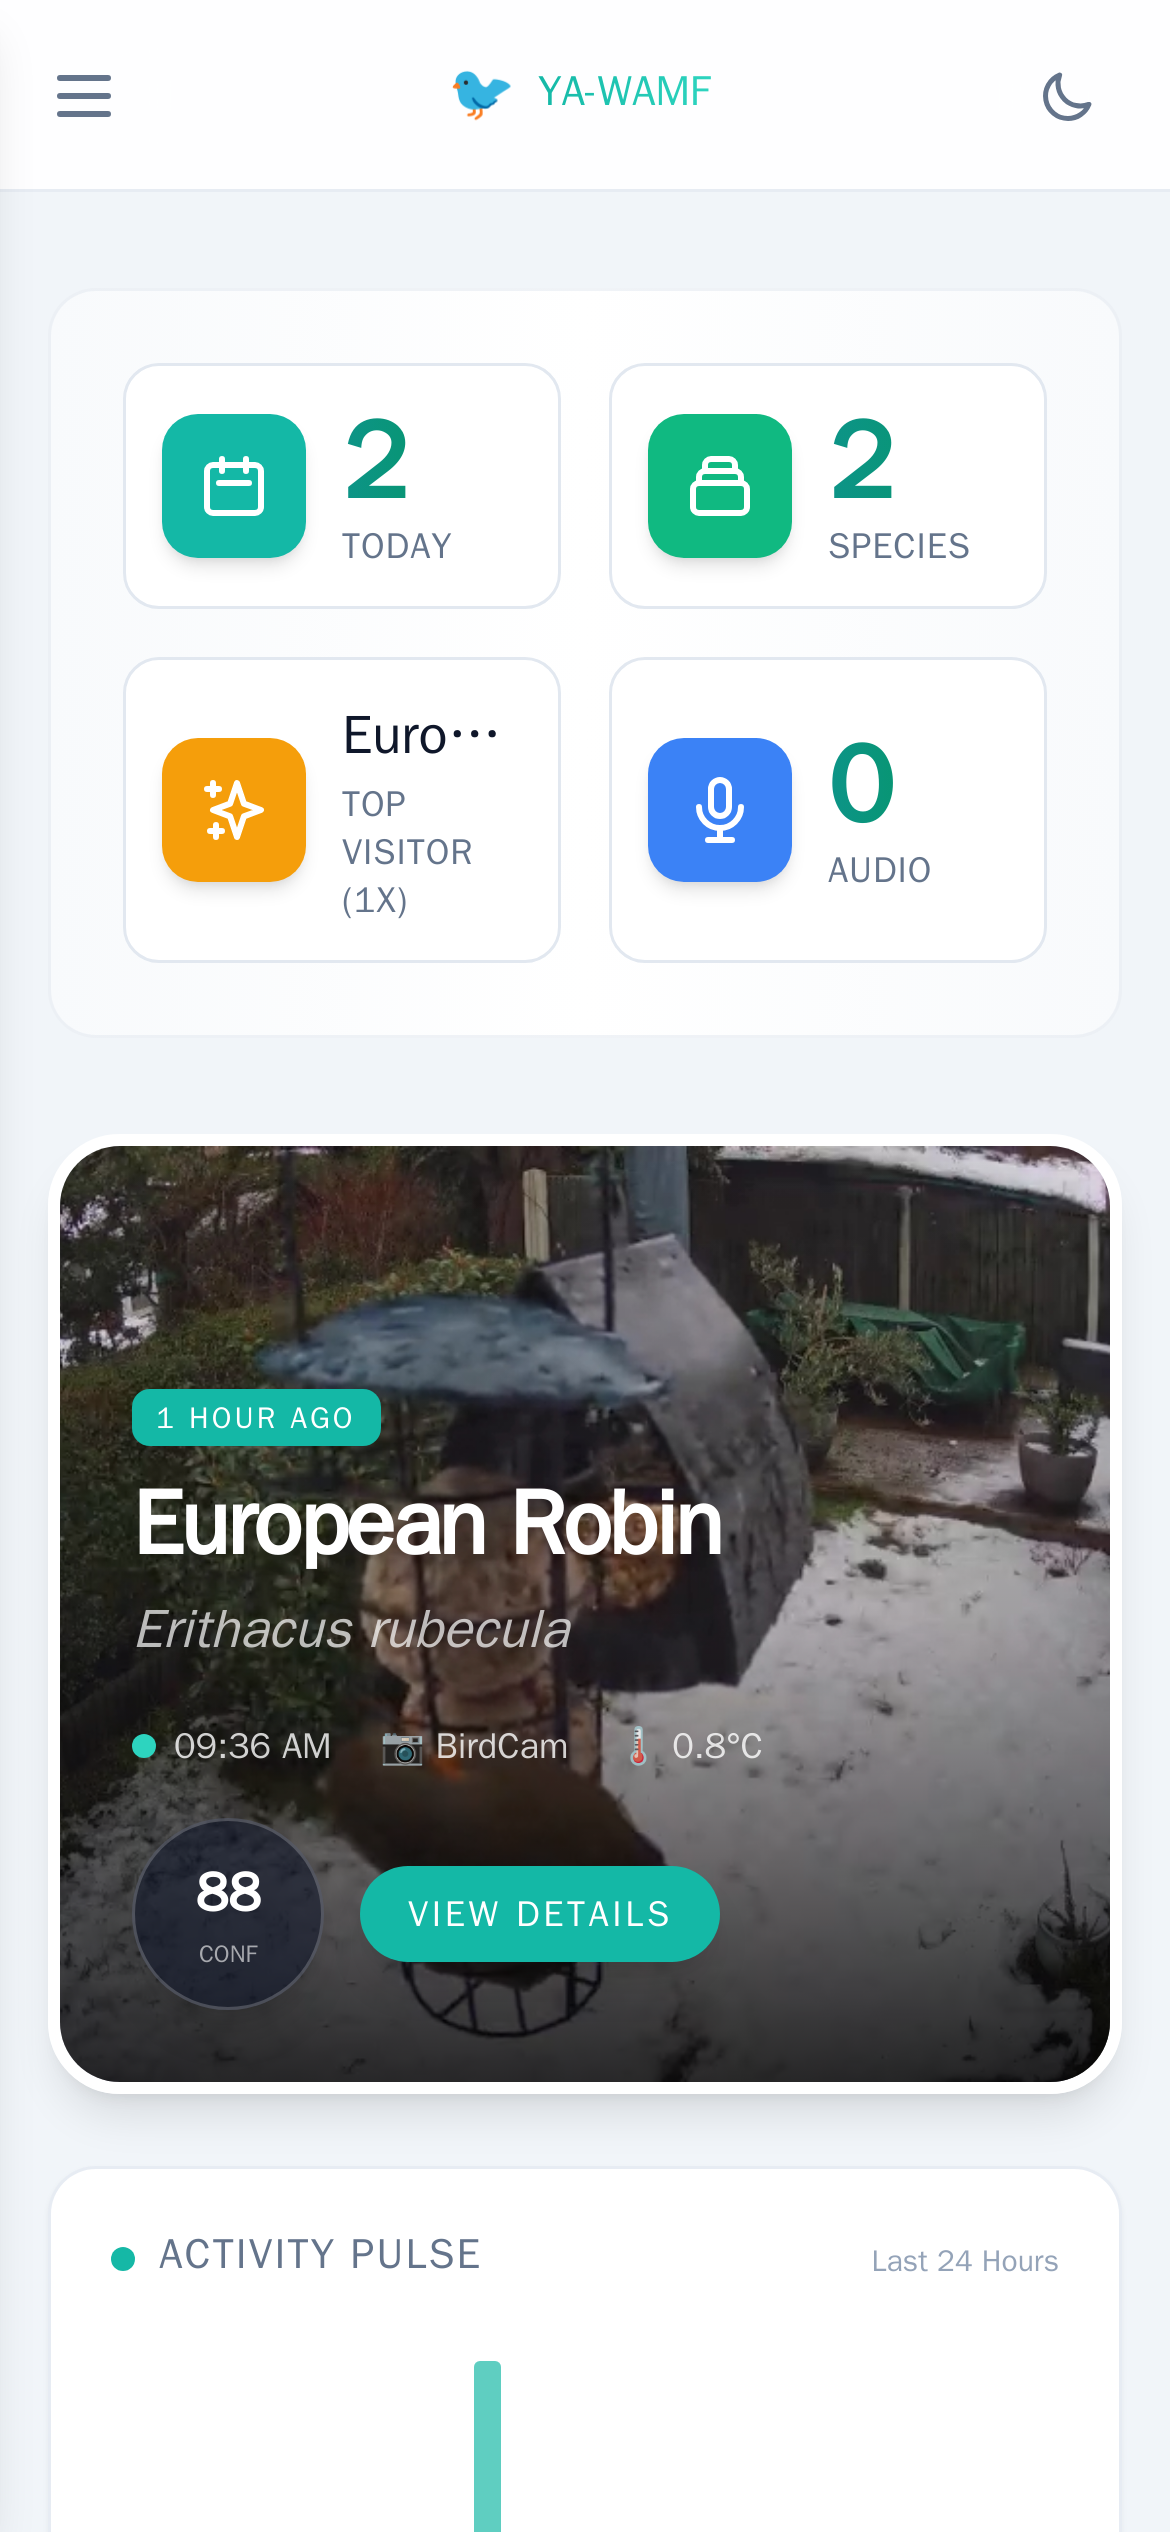
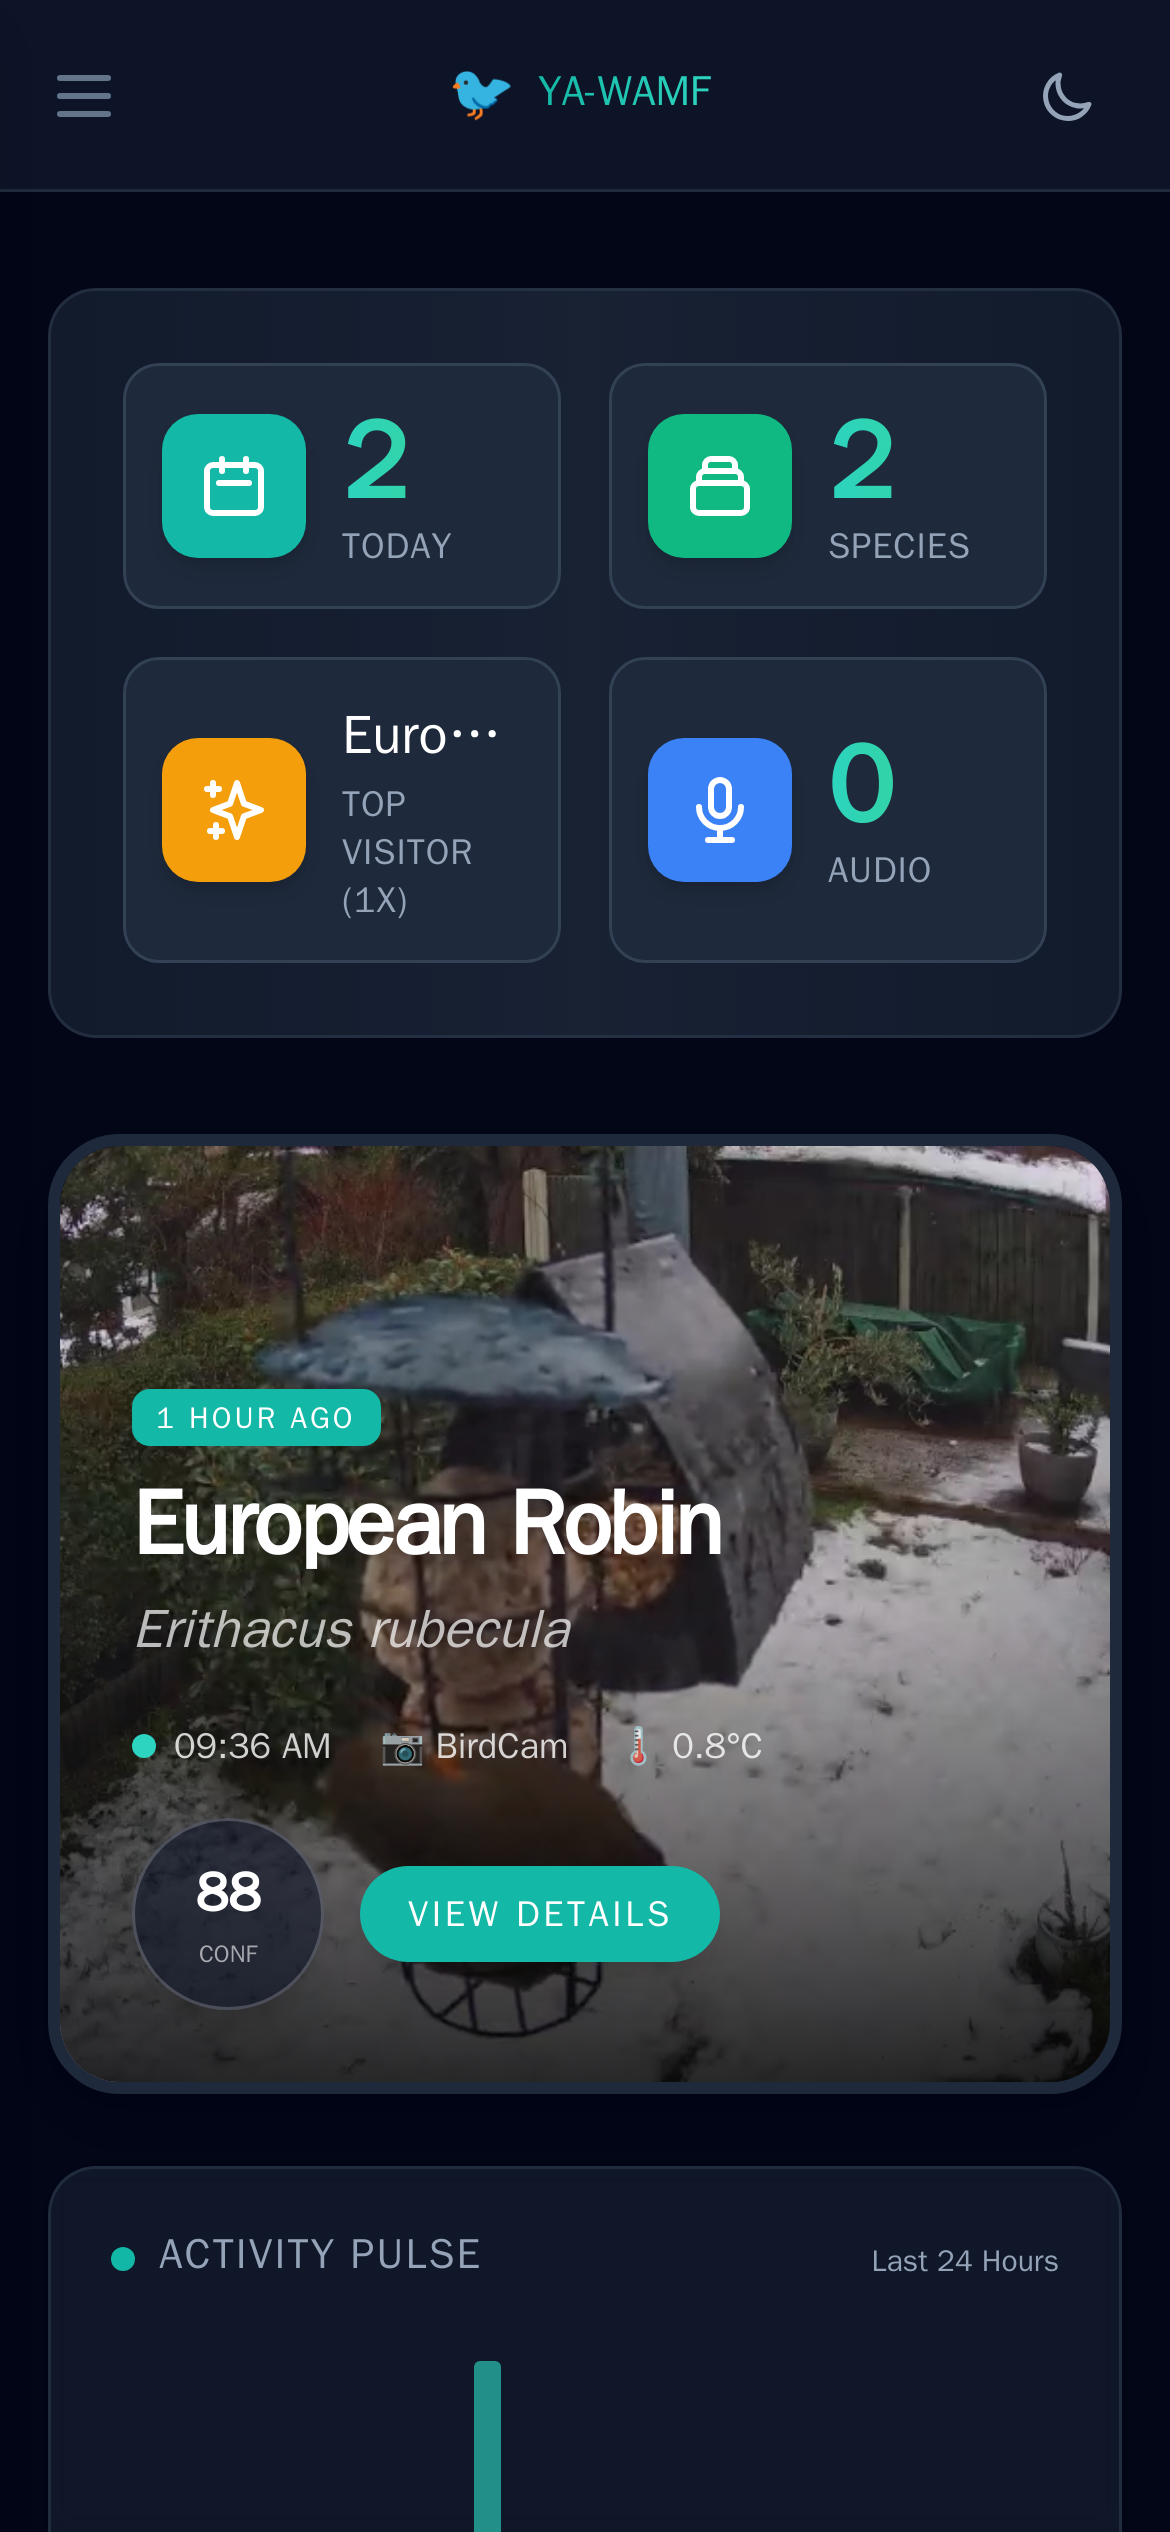
docs: update screenshots to dark mode and add deep analysis preview

diff --git a/tests/e2e/capture_extra_screenshots.py b/tests/e2e/capture_extra_screenshots.py
@@ -1,0 +1,98 @@
+import pytest
+from playwright.sync_api import sync_playwright
+import time
+import os
+
+# Output paths
+ROOT_DIR = "/config/workspace/YA-WAMF"
+DOCS_IMG_DIR = os.path.join(ROOT_DIR, "docs", "images")
+
+def capture_extra_screenshots():
+    print("\nConnecting to Playwright service at ws://playwright-service:3000/...")
+    with sync_playwright() as p:
+        try:
+            browser = p.chromium.connect("ws://playwright-service:3000/")
+            print("Connected to Playwright service.")
+            
+            # --- Desktop Screenshots ---
+            print("Capturing Event Details Modal (Dark Mode)...")
+            context = browser.new_context(
+                viewport={"width": 1400, "height": 900},
+                device_scale_factor=2,  # High DPI
+                color_scheme='dark'
+            )
+            page = context.new_page()
+            
+            # 1. Event Details Modal
+            print(" - Navigating to Events...")
+            page.goto("http://yawamf-frontend/events")
+            page.wait_for_load_state("domcontentloaded")
+            time.sleep(3) # Wait for cards to load and stabilize
+            
+            # Find the first card and click it
+            # We look for something that looks like a card. The DetectionCard has role="button"
+            card = page.locator('div[role="button"]').first
+            
+            if card.count() > 0:
+                print(" - Clicking first event card...")
+                card.click()
+                
+                # Wait for modal
+                print(" - Waiting for modal...")
+                modal = page.locator('div[role="dialog"]')
+                modal.wait_for(state="visible", timeout=5000)
+                
+                # Wait for animations
+                time.sleep(2)
+                
+                # Screenshot
+                screenshot_path = os.path.join(DOCS_IMG_DIR, "event_details_modal.png")
+                page.screenshot(path=screenshot_path)
+                print(f" - Saved to {screenshot_path}")
+                
+                # Close modal to be clean (optional)
+                page.keyboard.press("Escape")
+                time.sleep(1)
+            else:
+                print(" [WARNING] No event cards found. Skipping modal screenshot.")
+
+            # 2. Species Details Modal (if possible)
+            # This is harder to guarantee without knowing valid species, but we can try the Species page
+            print(" - Navigating to Species...")
+            page.goto("http://yawamf-frontend/species")
+            page.wait_for_load_state("domcontentloaded")
+            time.sleep(3)
+            
+            # Click first species card (assuming they are buttons or have click handlers)
+            # The Species page logic needs checking, but usually cards are clickable
+            species_card = page.locator('.cursor-pointer').first 
+            
+            if species_card.count() > 0:
+                print(" - Clicking first species card...")
+                species_card.click()
+                
+                # Wait for modal
+                # The SpeciesDetailModal might also be a dialog
+                modal = page.locator('div[role="dialog"]')
+                try:
+                    modal.wait_for(state="visible", timeout=5000)
+                    time.sleep(2)
+                    screenshot_path = os.path.join(DOCS_IMG_DIR, "species_details_modal.png")
+                    page.screenshot(path=screenshot_path)
+                    print(f" - Saved to {screenshot_path}")
+                except:
+                    print(" [WARNING] Species modal did not appear or timed out.")
+            else:
+                 print(" [WARNING] No species cards found.")
+
+
+            context.close()
+            browser.close()
+            print("\n[SUCCESS] Extra screenshots captured.")
+            
+        except Exception as e:
+            print(f"\n[ERROR] Failed to capture screenshots: {e}")
+            raise e
+
+if __name__ == "__main__":
+    capture_extra_screenshots()

diff --git a/tests/e2e/capture_species_and_mobile.py b/tests/e2e/capture_species_and_mobile.py
@@ -1,0 +1,74 @@
+import pytest
+from playwright.sync_api import sync_playwright
+import time
+import os
+
+# Output paths
+ROOT_DIR = "/config/workspace/YA-WAMF"
+DOCS_IMG_DIR = os.path.join(ROOT_DIR, "docs", "images")
+
+def capture_more_screenshots():
+    print("\nConnecting to Playwright service...")
+    with sync_playwright() as p:
+        browser = p.chromium.connect("ws://playwright-service:3000/")
+        
+        # --- Species Modal (Desktop) ---
+        print("Capturing Species Modal (Desktop)...")
+        context = browser.new_context(
+            viewport={"width": 1400, "height": 900},
+            device_scale_factor=2,
+            color_scheme='dark'
+        )
+        page = context.new_page()
+        page.goto("http://yawamf-frontend/species")
+        page.wait_for_load_state("domcontentloaded")
+        time.sleep(3)
+        
+        # Try finding a card with role="button"
+        card = page.locator('div[role="button"]').first
+        if card.count() > 0:
+            print(" - Clicking species card...")
+            card.click()
+            
+            # Wait for modal
+            modal = page.locator('div[role="dialog"]')
+            modal.wait_for(state="visible", timeout=5000)
+            time.sleep(2)
+            
+            page.screenshot(path=os.path.join(DOCS_IMG_DIR, "species_details_modal.png"))
+            print(" - Saved species_details_modal.png")
+        else:
+            print(" - No species cards found.")
+            
+        context.close()
+        
+        # --- Mobile Event Details ---
+        print("\nCapturing Event Details (Mobile)...")
+        context_mobile = browser.new_context(
+            viewport={"width": 390, "height": 844},
+            device_scale_factor=3,
+            color_scheme='dark',
+             user_agent="Mozilla/5.0 (iPhone; CPU iPhone OS 15_0 like Mac OS X) AppleWebKit/605.1.15 (KHTML, like Gecko) Version/15.0 Mobile/15E148 Safari/604.1"
+        )
+        mobile_page = context_mobile.new_page()
+        mobile_page.goto("http://yawamf-frontend/events")
+        mobile_page.wait_for_load_state("domcontentloaded")
+        time.sleep(3)
+        
+        card = mobile_page.locator('div[role="button"]').first
+        if card.count() > 0:
+            print(" - Clicking event card on mobile...")
+            card.click()
+            
+            modal = mobile_page.locator('div[role="dialog"]')
+            modal.wait_for(state="visible", timeout=5000)
+            time.sleep(2)
+            
+            mobile_page.screenshot(path=os.path.join(DOCS_IMG_DIR, "event_details_mobile.png"))
+            print(" - Saved event_details_mobile.png")
+        
+        context_mobile.close()
+        browser.close()
+
+if __name__ == "__main__":
+    capture_more_screenshots()

diff --git a/tests/e2e/update_docs_screenshots.py b/tests/e2e/update_docs_screenshots.py
@@ -15,10 +15,11 @@ def update_screenshots():
             print("Connected to Playwright service.")
             
             # --- Desktop Screenshots ---
-            print("Capturing Desktop Screenshots...")
+            print("Capturing Desktop Screenshots (Dark Mode)...")
             context_desktop = browser.new_context(
                 viewport={"width": 1400, "height": 900},
-                device_scale_factor=2  # High DPI for crisp screenshots
+                device_scale_factor=2,  # High DPI for crisp screenshots
+                color_scheme='dark'
             )
             page = context_desktop.new_page()
             
@@ -54,11 +55,12 @@ def update_screenshots():
             context_desktop.close()
             
             # --- Mobile Screenshots ---
-            print("Capturing Mobile Screenshots...")
+            print("Capturing Mobile Screenshots (Dark Mode)...")
             context_mobile = browser.new_context(
                 viewport={"width": 390, "height": 844},
                 device_scale_factor=3,
-                user_agent="Mozilla/5.0 (iPhone; CPU iPhone OS 15_0 like Mac OS X) AppleWebKit/605.1.15 (KHTML, like Gecko) Version/15.0 Mobile/15E148 Safari/604.1"
+                user_agent="Mozilla/5.0 (iPhone; CPU iPhone OS 15_0 like Mac OS X) AppleWebKit/605.1.15 (KHTML, like Gecko) Version/15.0 Mobile/15E148 Safari/604.1",
+                color_scheme='dark'
             )
             mobile_page = context_mobile.new_page()
             

diff --git a/README.md b/README.md
@@ -98,6 +98,7 @@ Here's the flow from bird to identification:
 5. **Classification runs** - Otherwise, the image goes through a local model (TFLite or ONNX) trained on bird species.
 6. **Results stored & Notified** - The detection is saved, and notifications (Discord/Telegram/Pushover) are fired immediately.
 7. **Deep Analysis** - If enabled, a background task waits for the video clip to finalize, then scans it frame-by-frame to refine the ID.
+   ![Event Details with Deep Analysis](docs/images/event_details_modal.png)
 8. **Dashboard updates** - The frontend gets real-time updates via Server-Sent Events (SSE).
 
 ## Getting Started with Docker Compose
